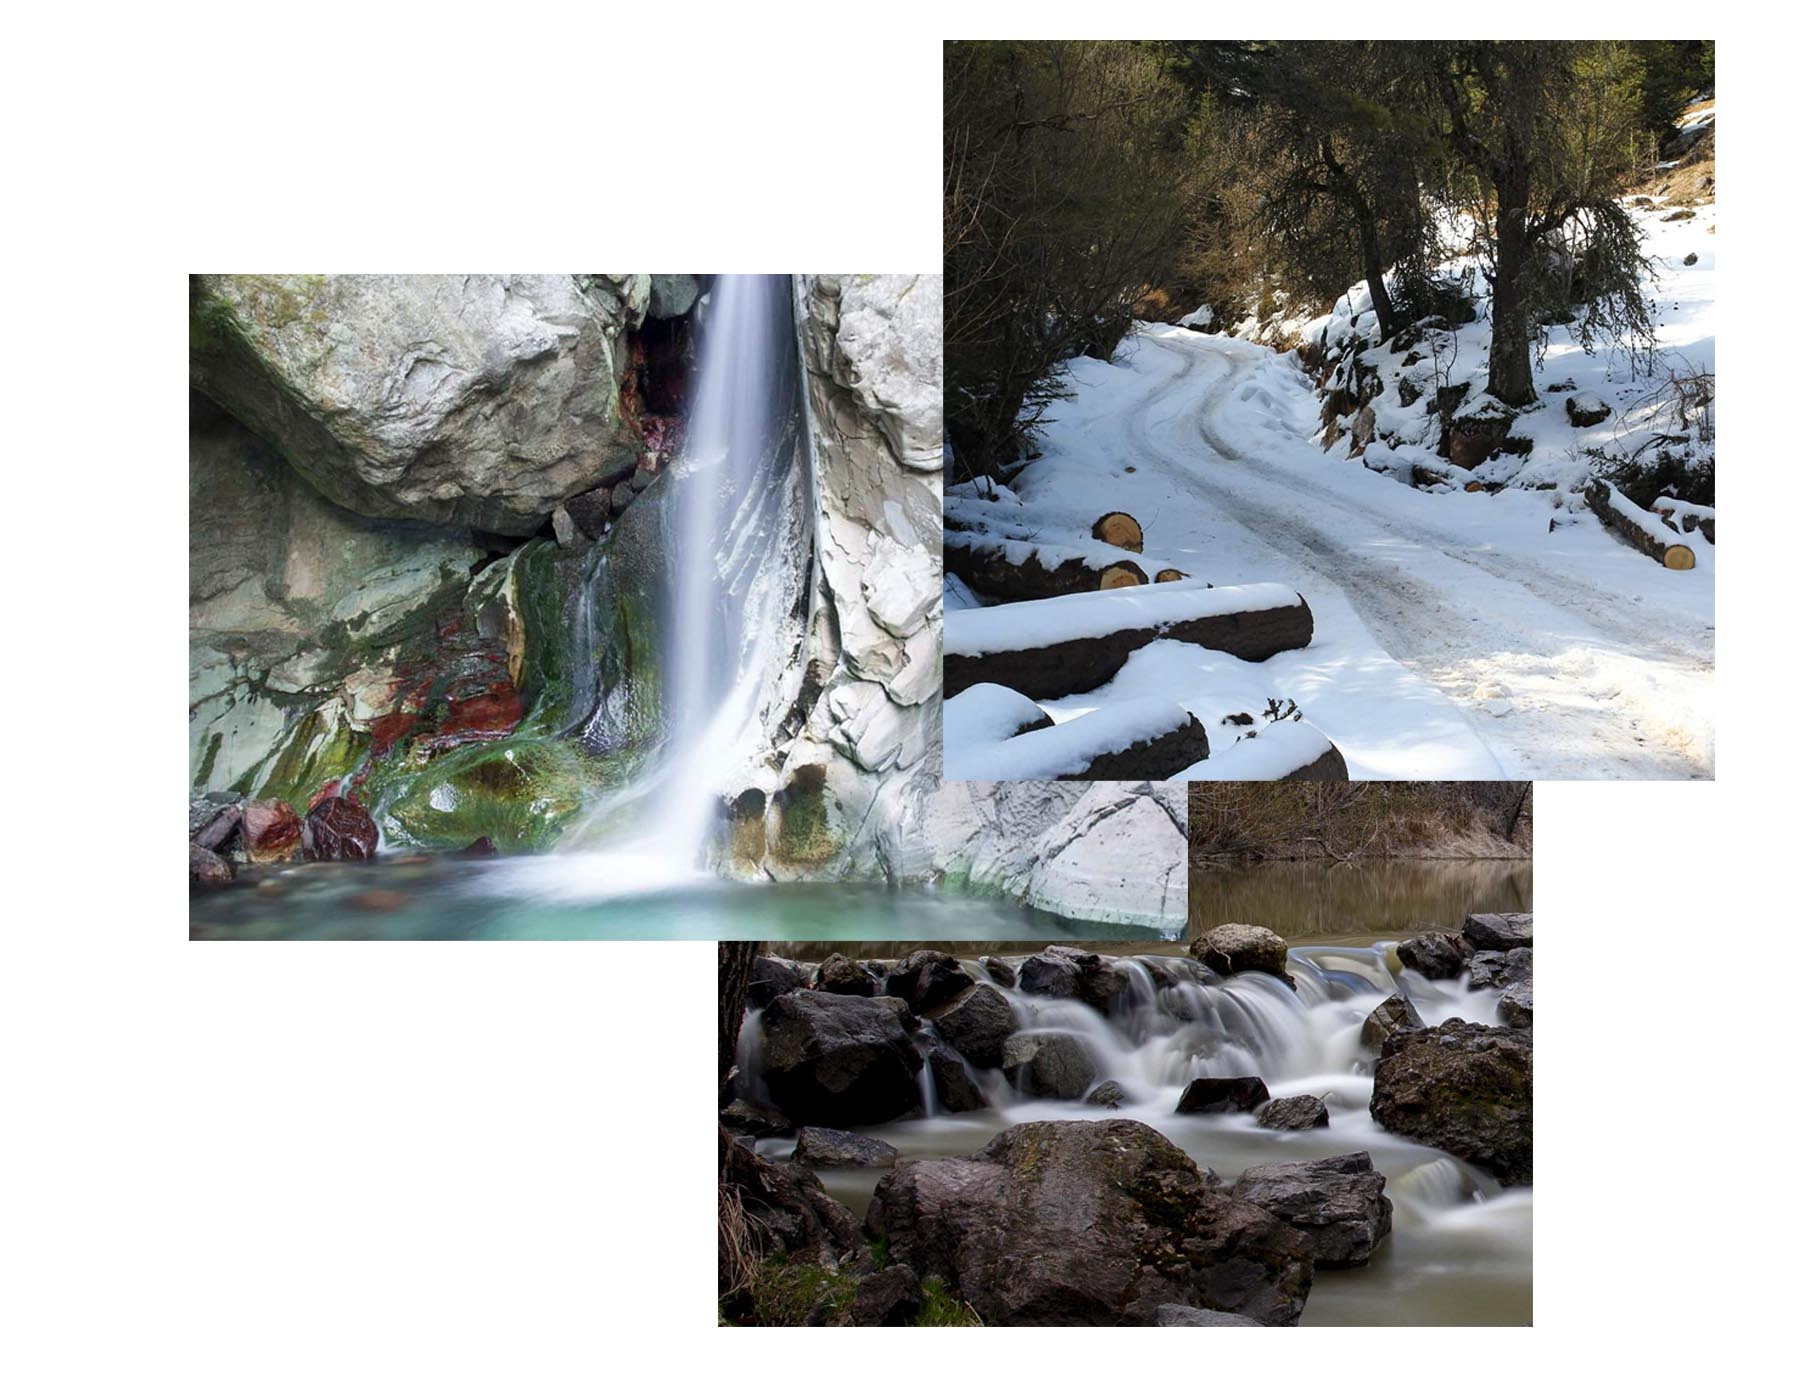
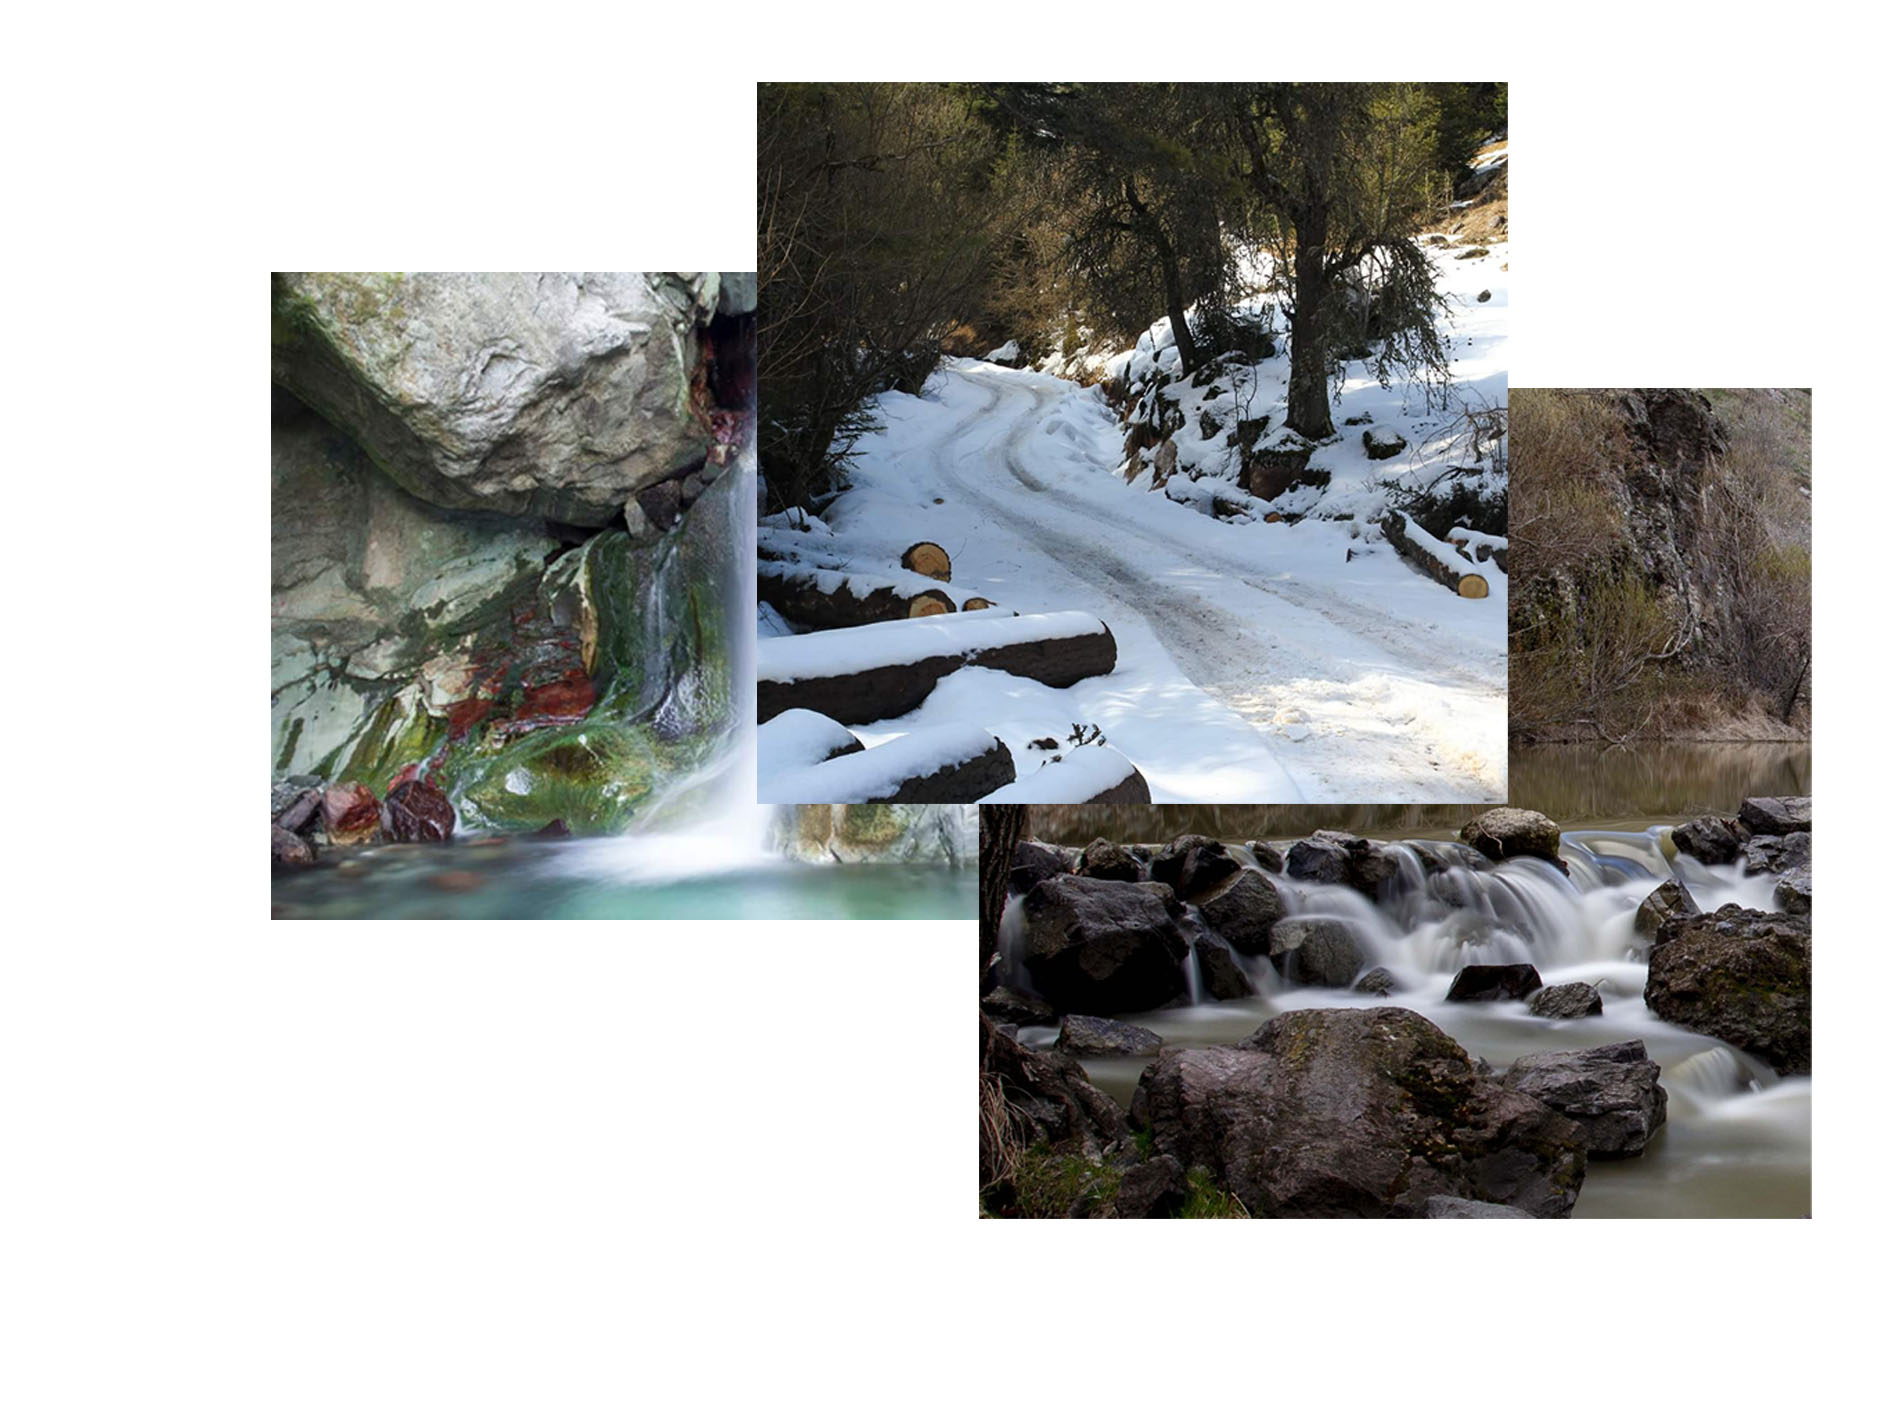
hero part1 yarim

diff --git a/css/style.css b/css/style.css
@@ -1,8 +1,52 @@
+/*
+--- 01 TYPOGRAPHY SYSTEM
+- Font sizes (px)
+10 / 12 / 14 / 16 / 18 / 20 / 24 / 30 / 36 / 44 / 52 / 62 / 74 / 86 / 98
+- Font weights
+Default: 400
+Medium: 500
+Semi-bold: 600
+Bold: 700
+- Line heights
+Default: 1
+Small: 1.05
+Medium: 1.2
+Paragraph default: 1.6
+- Letter spacing
+-0.5px
+0.75px
+--- 02 COLORS
+- Primary: #e67e22
+- Tints:
+#fdf2e9
+#fae5d3
+#eb984e
+- Shades: 
+#cf711f
+#45260a
+- Accents:
+- Greys
+#888
+#767676 (lightest grey allowed on #fff)
+#6f6f6f (lightest grey allowed on #fdf2e9)
+#555
+#333
+--- 05 SHADOWS
+0 2.4rem 4.8rem rgba(0, 0, 0, 0.075);
+--- 06 BORDER-RADIUS
+Default: 9px
+Medium: 11px
+--- 07 WHITESPACE
+- Spacing system (px)
+2 / 4 / 8 / 12 / 16 / 24 / 32 / 48 / 64 / 80 / 96 / 128
+*/
+
 * {
   margin: 0;
   padding: 0;
   box-sizing: border-box;
 }
+
 html {
   font-size: 62.5%;
 }
@@ -19,6 +63,23 @@ body {
   margin: 0 auto;
   display: grid;
   grid-template-columns: 1fr 1fr;
+  align-items: center;
+  background-color: #fdf2e9;
+}
+
+.heading-primary {
+  font-size: 5.2rem;
+  font-weight: 700;
+  line-height: 1.05;
+  color: #333;
+  letter-spacing: -0.5px;
+  margin-bottom: 3.2rem;
+}
+
+.hero-description {
+  font-size: 2rem;
+  line-height: 1.6;
+  margin-bottom: 4.8rem;
 }
 
 .hero-img {

diff --git a/index.html b/index.html
@@ -15,18 +15,16 @@
     <div class="hero">
 
       <div class="hero-text-hero">
-        <h1 class="heading-primary">Lorem ipsum dolor, sit amet consectetur adipisicing elit. Asperiores, deleniti.</h1>
+        <h1 class="heading-primary">Lorem ipsum dolor, sit amet.</h1>
         <p class="hero-description">
           Lorem ipsum dolor sit amet consectetur adipisicing elit. Exercitationem molestias sed temporibus aut!
-          Asperiores
-          quaerat fugiat rerum neque impedit. Amet et eaque unde consequuntur voluptatibus facilis quisquam minus fuga
-          ducimus?
+          Asperiores quaerat fugiat rerum neque impedit.
         </p>
         <a href="#" class="btn">Lorem, ipsum dolor.</a>
         <a href="#" class="btn">Lorem, ipsum.</a>
       </div>
       <div class="hero-img-box">
-        <img src="img/hero-benim.jpg" class="hero-img" alt="My photos">
+        <img src="img/hero-benim.png" class="hero-img" alt="My photos">
 
       </div>
     </div>
